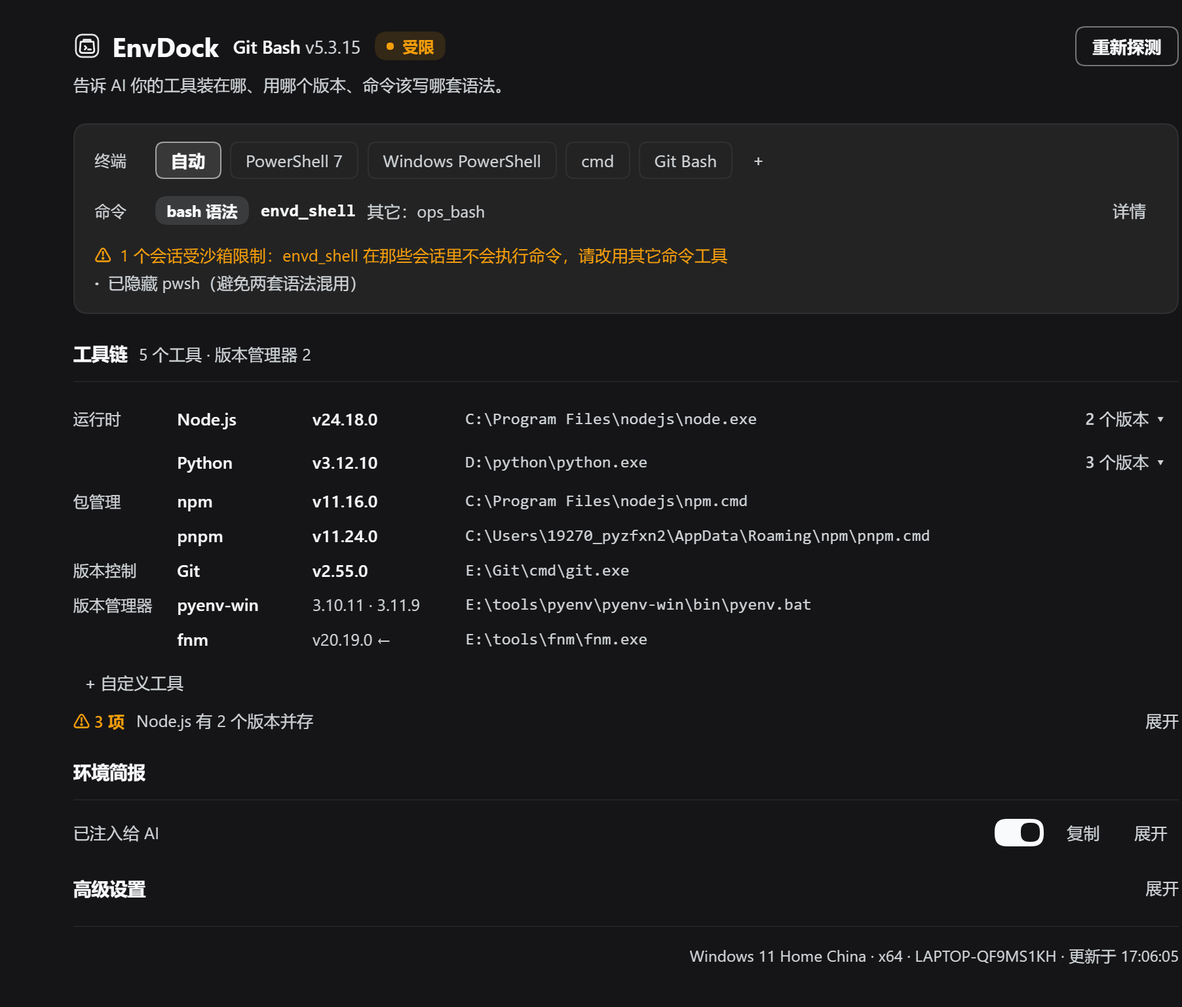
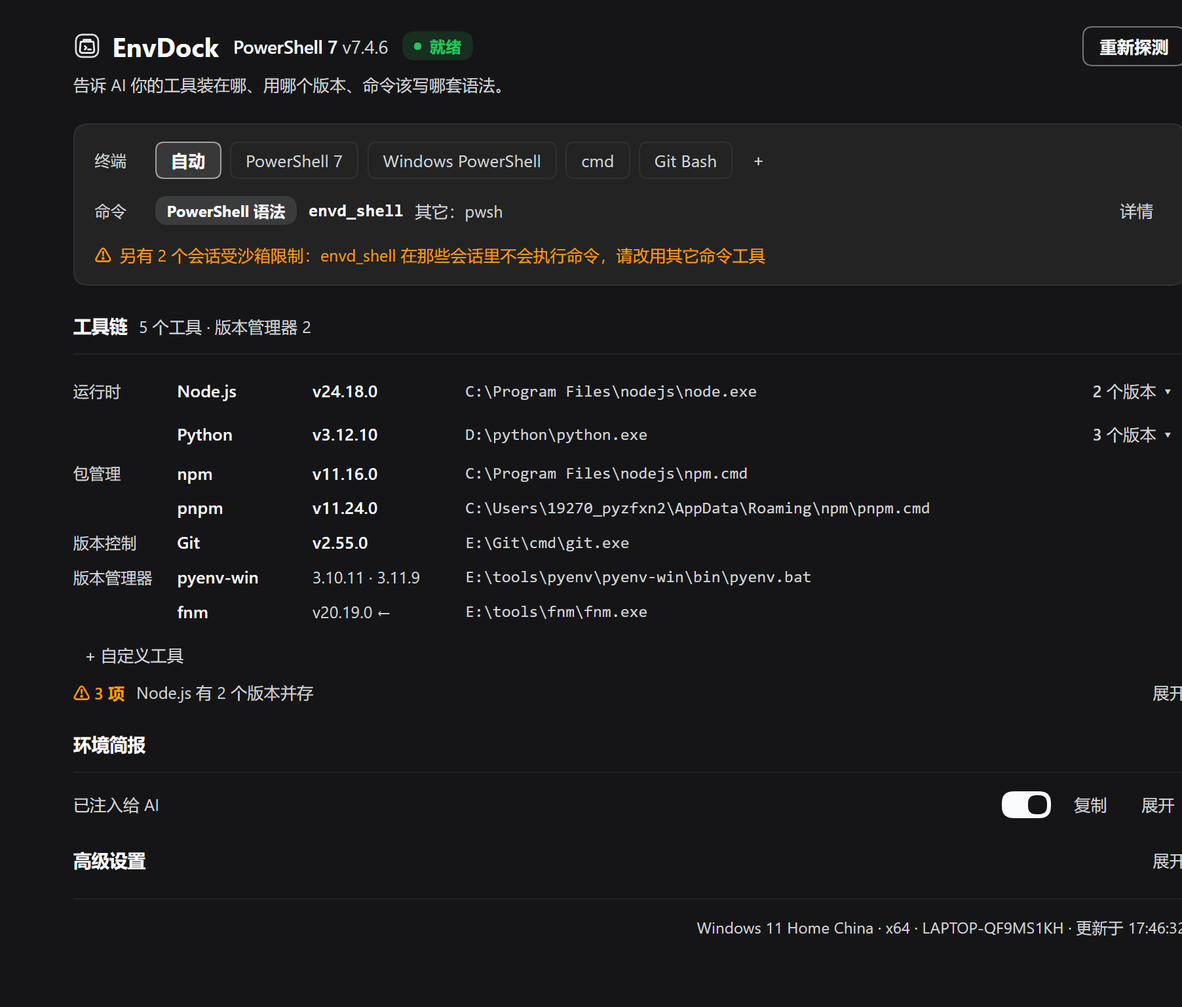
fix(panel): 0.6.1 首屏残留收尾——badge 二态、受限备注补主语、详情去累计计数
用户截图反馈（dsh-ops 禁用、宿主工具是官方 pwsh 的场景）：

- 「受限」badge 没有主语：面板是全局的，改成二态「就绪 / 只展示」；「另有 N 个会话受沙箱限制…」只留备注。- 环境差异长句不再占备注第二行：并进「其它：…」的悬停，普通状态备注为空。- 详情里的「隐藏 9 次 / 拒绝 N 次」是历史累计值（bash 族阶段留下的），当前 PowerShell 族什么都没藏，会误导；从面板与词条里删掉（API syncStats 字段保留）。- 受限备注补「另有」，避免读成当前会话。- panel-render 387 checks / i18n 20 条 / 全量 npm test 绿；DESIGN/README 中英/CHANGELOG 与 docs/panel.png 同步。

diff --git a/client.js b/client.js
@@ -17,17 +17,20 @@
  *
  * 0.6.1「首屏收敏」:陌生人打开面板 5 秒要看懂三件事 —— 这是什么插件 / AI 现在用什么
  * 命令环境 / 去哪里改。做法是「一句人话 + 四块常显 + 高级收进折叠」:
- *   · 头部下一行常显一句用途说明(.envd-subtitle);badge 只有白话三态:就绪 / 受限 / 只展示;
+ *   · 头部下一行常显一句用途说明(.envd-subtitle);badge 只有两态:就绪 / 只展示
+ *     (「有会话被沙箱限制」只进备注,不上面板级 badge);
  *   · 终端 chip 不再挂语法族小标(「pwsh」挂在每个 PowerShell 终端上既重复又误导),
  *     语法只说一次:命令行 .envd-fam 写「bash 语法 / PowerShell 语法」,手动选才带「· 手动」;
- *   · 备注全部改人话(已隐藏 / 受沙箱限制 / 别混用 / 已自动改回),仍最多两行;
+ *   · 备注全部改人话(已隐藏 / 另有 N 个会话受沙箱限制 / 别混用 / 已自动改回),仍最多两行;
+ *     环境差异那句挪进「其它」段的 title,普通状态备注最多只有一行;
  *   · 底部 footer 只留复制反馈 + 环境脚注;注入开关放在「环境简报」区那一行,
  *     「隐藏另一族命令工具 / 允许局域网访问」收进默认折叠的「高级设置」;
+ *   · 详情计数只留扫描 / 最近 / 注册尝试(隐藏/拒绝是历史累计,API 仍给但面板不摆);
  *   · 拿不到数据(403)时简报区不存在,allowLan 开关仍留在 footer(唯一入口)。
  *
  * 三条硬规则:
  *   · 常显区不放计数:计数只在「详情」里出现,常显区只留一句人话;
- *   · 只有「状态」配胶囊:终端选择用 chip,状态用 badge(三态);
+ *   · 只有「状态」配胶囊:终端选择用 chip,状态用 badge(二态);
  *   · 异常必须一行说完并说清原因:不许出现「⚠ 出错了」然后让用户去别处找。
  * 样式只用 --dsw-* theme token,浅色/深色都由 token 决定,不硬编码颜色。
  */
@@ -72,16 +75,16 @@ window.__ModuleLoader__.load({
         dismiss: '知道了',
         actionFailed: '操作失败',
         command: '命令',
-        // badge 三态:整个面板唯一的状态结论(白话,不带族)
+        // badge 二态:整个面板唯一的状态结论(白话,没有主语的状态词不上 badge)
         statusAdditive: '就绪',
         statusDisplayOnly: '只展示',
-        statusConfined: '受限',
         // 命令行
         hostPrefix: '其它：',
         hostToolsNone: '没有其它命令工具',
         noteLegacyApi: '界面拿到的还是旧版数据，重启 dsh 后就能看到命令环境',
         cmdHintEnvDock: 'EnvDock 提供的命令工具：用你的终端和 PATH',
-        cmdHintHost: '其它命令工具：由 dsh 提供，环境与 PATH 跟你的终端可能不一样',
+        // 「其它」段一句话说清它跟你终端的关系(原来备注里那条长解释挪到这里,悬停可见)
+        cmdHintHost: '其它命令工具：由 dsh 提供，环境和 PATH 跟你的终端可能不一样；要用你自己的工具时用 envd_shell',
         // 未提供命令工具的原因(skipReason)
         skipNoFamilyTerminal: '没找到可用的终端（bash 语法需要 Git Bash，PowerShell 语法需要 pwsh）',
         skipNoUnconfined: '没有不受沙箱限制的会话，暂时不会提供 envd_shell',
@@ -93,8 +96,7 @@ window.__ModuleLoader__.load({
         noteNoBashHost: '这个会话没有 bash 命令工具，未隐藏 PowerShell 工具',
         noteFamilyFallback: '手动选的语法不可用（没有对应终端，也没有对应命令工具），已自动改回按会话选择',
         noteMixed: '手动选了 PowerShell 语法：PowerShell 与 bash 工具都在，各按自己的语法写，别混用',
-        noteConfined: '{n} 个会话受沙箱限制：envd_shell 在那些会话里不会执行命令，请改用其它命令工具',
-        envHint: '其它命令工具的环境和 PATH 跟你的终端可能不一样；要用你自己的工具时用 envd_shell',
+        noteConfined: '另有 {n} 个会话受沙箱限制：envd_shell 在那些会话里不会执行命令，请改用其它命令工具',
         // 详情
         diag: '详情',
         hostTools: '命令工具',
@@ -103,8 +105,6 @@ window.__ModuleLoader__.load({
         dScan: '扫描 {n} 次',
         dLastScan: '最近 {n}ms',
         dRegisterTries: '注册尝试 {n}',
-        dRestrictApplied: '隐藏 {n} 次',
-        dGuardRefusals: '拒绝 {n} 次',
         hostToolHidden: '已隐藏',
         hostToolRefused: '调用会被拒绝',
         displayOnlyTag: '只展示（没有隐藏）',
@@ -182,15 +182,15 @@ window.__ModuleLoader__.load({
         dismiss: 'Dismiss',
         actionFailed: 'Action failed',
         command: 'Command',
-        // badge: the panel's single status conclusion (plain words, no family)
+        // badge: the panel's single status conclusion (plain words, two states)
         statusAdditive: 'Ready',
         statusDisplayOnly: 'Display only',
-        statusConfined: 'Limited',
         hostPrefix: 'Other: ',
         hostToolsNone: 'No other command tools',
         noteLegacyApi: 'The panel is reading data from an older build; restart dsh to see the command environment',
         cmdHintEnvDock: 'Command tool provided by EnvDock: runs with your terminal and PATH',
-        cmdHintHost: 'Other command tools: provided by dsh; their environment and PATH may differ from your terminal',
+        // One sentence on the "Other" group; the long note that used to sit in the panel lives here.
+        cmdHintHost: 'Other command tools: provided by dsh; their environment and PATH may differ from your terminal - use envd_shell when you need your own tools',
         skipNoFamilyTerminal: 'No usable terminal found (bash syntax needs Git Bash, PowerShell syntax needs pwsh)',
         skipNoUnconfined: 'No session outside the sandbox yet; envd_shell is not provided for now',
         skipTaken: 'Name is taken by another plugin; envd_shell is not provided',
@@ -200,8 +200,7 @@ window.__ModuleLoader__.load({
         noteNoBashHost: 'This session has no bash command tool, so PowerShell tools were not hidden',
         noteFamilyFallback: 'The manually picked syntax is unavailable (no matching terminal or command tool); switched back to per-session selection',
         noteMixed: 'PowerShell syntax was picked manually: both PowerShell and bash tools are available; write each command in its own syntax, do not mix them',
-        noteConfined: '{n} sessions are sandbox-limited: envd_shell will not run there; use another command tool',
-        envHint: 'Other command tools may use a different environment and PATH than your terminal; use envd_shell when you need your own tools',
+        noteConfined: '{n} other sessions are sandbox-limited: envd_shell will not run there; use another command tool',
         diag: 'Details',
         hostTools: 'Command tools',
         learnedTag: 'auto-detected',
@@ -209,8 +208,6 @@ window.__ModuleLoader__.load({
         dScan: 'scans: {n}',
         dLastScan: 'last: {n}ms',
         dRegisterTries: 'register tries: {n}',
-        dRestrictApplied: 'hides: {n}',
-        dGuardRefusals: 'refusals: {n}',
         hostToolHidden: 'hidden',
         hostToolRefused: 'calls are refused',
         displayOnlyTag: 'display only (not hidden)',
@@ -275,7 +272,7 @@ window.__ModuleLoader__.load({
 .envd-headline{font-size:12.5px;color:var(--dsw-alias-label-secondary);white-space:nowrap;min-width:0;max-width:100%;flex:0 1 auto;overflow:hidden;text-overflow:ellipsis}
 .envd-headline b{color:var(--dsw-alias-label-primary);font-weight:600}
 
-/* badge:整个面板只有「状态」用胶囊(三态:就绪 / 只展示 / 受限) */
+/* badge:整个面板只有「状态」用胶囊(二态:就绪 / 只展示) */
 .envd-badge{display:inline-flex;align-items:center;gap:6px;height:20px;padding:0 8px;border-radius:999px;font-size:11px;font-weight:650;white-space:nowrap;flex:none;max-width:100%;overflow:hidden;text-overflow:ellipsis;background:var(--dsw-alias-bg-layer-2);color:var(--dsw-alias-label-secondary)}
 .envd-badge .dot{width:5px;height:5px;border-radius:50%;background:currentColor;flex:none}
 .envd-badge.ok{color:var(--dsw-alias-state-success-primary);background:color-mix(in srgb,var(--dsw-alias-state-success-primary) 14%,transparent)}
@@ -815,14 +812,15 @@ window.__ModuleLoader__.load({
       const confinedCount = Math.max(0, Number(sandboxInfo.confinedCount) || 0)
       const confined = confinedCount > 0
 
-      // badge 三态(整个面板唯一的状态结论):白话三态,不挂族 —— 族只在命令行的语法标签里说。
-      //   没有命令工具 → 只展示;有且会话被沙箱限制 → 受限;否则就绪。
-      const badgeTone = ready ? (confined ? 'warn' : 'ok') : 'muted'
-      const badgeText = ready ? (confined ? t.statusConfined : t.statusAdditive) : t.statusDisplayOnly
+      // badge 二态(整个面板唯一的状态结论):有命令工具 → 就绪,没有 → 只展示。
+      // 「有会话被沙箱限制」不是面板级结论(面板是全局的):它只进备注,免得上 badge 变成没主语的「受限」。
+      const badgeTone = ready ? 'ok' : 'muted'
+      const badgeText = ready ? t.statusAdditive : t.statusDisplayOnly
 
-      // 备注最多两行,按优先级取:未提供原因 → 沙箱限制 → 语法回退 → 混用警告 → 隐藏/未隐藏 → 环境差异。
+      // 备注最多两行,按优先级取:未提供原因 → 沙箱限制 → 语法回退 → 混用警告 → 隐藏/未隐藏。
       // 「用 envd_shell」「已隐藏 pwsh」这类话只在 envd_shell 真的可用/事实真的成立时才说:
       // 没提供工具就无工具可拒,也没挡任何东西 —— 那时只剩一句原因。
+      // 环境差异那句已挪进「其它」段的 title(悬停可见),普通状态备注最多一行。
       const notes = []
       if (legacyApi) notes.push({ tone: 'warn', text: t.noteLegacyApi })
       if (!ready && !legacyApi) {
@@ -849,7 +847,6 @@ window.__ModuleLoader__.load({
       if (family === 'bash' && !mixed && !blockOtherFamily && pwshHostNames.length) notes.push({ tone: 'muted', text: t.noteNotBlocked })
       // 手动选了 bash 语法、会话里却看不到 bash 命令工具:隐藏条件不成立,说清「没有隐藏」。
       if (family === 'bash' && familySource === 'manual' && bashHostNames.length === 0) notes.push({ tone: 'muted', text: t.noteNoBashHost })
-      if (ready) notes.push({ tone: 'muted', text: t.envHint })
       const shownNotes = notes.slice(0, 2)
       const badgeTitle = shownNotes.length ? shownNotes.map((note) => note.text).join(' · ') : undefined
 
@@ -858,17 +855,10 @@ window.__ModuleLoader__.load({
         const n = Number(value)
         return Number.isFinite(n) && n > 0 ? Math.round(n) : 0
       }
-      // 0.6 的新计数(遮挡 / 拒绝)只在真的发生过时出现:常显区不放计数,详情也不摆一排 0。
+      // 详情计数只留「扫描 / 最近 / 注册尝试」这三项稳定事实:
+      // restrictApplied / guardRefusals 是历史累计(API 仍提供),贴着「此刻」的详情摆只会误导用户。
       const countText = stats
-        ? [
-            fmt(t.dScan, { n: statNum(stats.detections) }),
-            fmt(t.dLastScan, { n: statNum(stats.lastDetectMs) }),
-            fmt(t.dRegisterTries, { n: statNum(stats.registerTries) }),
-            statNum(stats.restrictApplied) ? fmt(t.dRestrictApplied, { n: statNum(stats.restrictApplied) }) : '',
-            statNum(stats.guardRefusals) ? fmt(t.dGuardRefusals, { n: statNum(stats.guardRefusals) }) : '',
-          ]
-            .filter(Boolean)
-            .join(' · ')
+        ? [fmt(t.dScan, { n: statNum(stats.detections) }), fmt(t.dLastScan, { n: statNum(stats.lastDetectMs) }), fmt(t.dRegisterTries, { n: statNum(stats.registerTries) })].filter(Boolean).join(' · ')
         : ''
       const lastError = stats && typeof stats.lastError === 'string' ? stats.lastError.trim() : ''
       // 宿主工具 chips:被遮挡的名字不在 hostTools 里(宿主报的是「此刻看得见」),

diff --git a/docs/DESIGN.md b/docs/DESIGN.md
@@ -176,11 +176,11 @@ Windows 的 `py` 启动器也是一种身份：它既是 `python` 的别名（`e
 
 首屏四块（头部 + 命令卡 + 工具链 + 环境简报）+ 折叠项（命令卡里的「详情」与独立的「高级设置」），footer 只放反馈与脚注：
 
-1. **头部**（`envd-headblock`）：图标 + `EnvDock` · 默认终端名与版本（`envd-headline`，如 `Git Bash v5.3.15`）· **恰好一个三态**状态 badge（`就绪` / `受限` / `只展示`，**不带族后缀**，悬停给出原因）· 右侧「重新探测」。下面常显**一句用途**：「告诉 AI 你的工具装在哪、用哪个版本、命令该写哪套语法。」问题数**不**在头部——它在工具链末尾的环境检查行。
+1. **头部**（`envd-headblock`）：图标 + `EnvDock` · 默认终端名与版本（`envd-headline`，如 `Git Bash v5.3.15`）· **恰好一个二态**状态 badge（`就绪` / `只展示`，**不带族后缀**，悬停给出原因；「有会话受沙箱限制」只进备注，不上面板级 badge）· 右侧「重新探测」。下面常显**一句用途**：「告诉 AI 你的工具装在哪、用哪个版本、命令该写哪套语法。」问题数**不**在头部——它在工具链末尾的环境检查行。
 2. **置顶「命令工具」卡**：
    - `终端` chips：`自动` / 各终端 / `+` 自定义终端（`+` 展开路径 + 名称 + 参数模板）。chips **只显示终端名，不带族小标**；`自动` 的悬停说明是「按会话自动选语法族（推荐）」。
    - `命令` 行：语法标签（`bash 语法` / `PowerShell 语法`；**手动选择时才带「· 手动」**，自动不带后缀）· `envd_shell`（没提供时写 `—`）· `其它：ops_bash · pwsh`（没有就写「没有其它命令工具」）· 右侧「详情」。
-   - 备注（最多两行，全白话）：没提供的原因 / `N 个会话受沙箱限制：envd_shell 在那些会话里不会执行命令，请改用其它命令工具` / `已隐藏 pwsh（避免两套语法混用）` / `手动选了 PowerShell 语法：PowerShell 与 bash 工具都在，各按自己的语法写，别混用` / 环境差异提示。
+   - 备注（最多两行，全白话）：没提供的原因 / `另有 N 个会话受沙箱限制：envd_shell 在那些会话里不会执行命令，请改用其它命令工具` / `已隐藏 pwsh（避免两套语法混用）` / `手动选了 PowerShell 语法：PowerShell 与 bash 工具都在，各按自己的语法写，别混用`。普通状态下没有备注。
    - 详情（默认收起）：见「详情与轮询」。
 3. **工具链**：一行一个工具（分组 / 名称 / 版本 / 路径可点复制 / 行尾「N 个版本 ▾」），版本管理器一行一个（激活版本带 ←），末尾「+ 自定义工具」入口；**环境检查收在工具链末尾一行**：健康时 `✓ 通过`，有问题时 `⚠ N 项` + 第一条标题，点开展开列表。
 4. **环境简报**：一行「已注入给 AI / 未注入」+ **行内注入开关** + 复制 + 展开；展开才显示简报正文。开关挪到这里之后，底部 footer 不再重复同一件事。
@@ -189,33 +189,32 @@ Windows 的 `py` 启动器也是一种身份：它既是 `python` 的别名（`e
 
 ### 已删除的渲染
 
-接管期语义早就删除：接管模式 / 沙箱下接管 chips、逐会话表、状态胶囊 `.envd-statuschip`、异常 / 让路 / 工具并存渲染、`kind` 推导。0.6.1 再删一轮「技术味太重」的装饰：终端 chip 上的族小标、badge 的族后缀、底部与简报区重复的开关、首屏的「族 / 宿主 / 围栏 / 增补」措辞。面板仍然只有一处状态结论，也不重新引入逐会话表。
+接管期语义早就删除：接管模式 / 沙箱下接管 chips、逐会话表、状态胶囊 `.envd-statuschip`、异常 / 让路 / 工具并存渲染、`kind` 推导。0.6.1 再删一轮「技术味太重」的装饰：终端 chip 上的族小标、badge 的族后缀与「受限」态、底部与简报区重复的开关、备注里的环境差异长句、详情里的历史累计隐藏 / 拒绝次数、首屏的「族 / 宿主 / 围栏 / 增补」措辞。面板仍然只有一处状态结论，也不重新引入逐会话表。
 
-### 三态 badge
+### 二态 badge
 
-面板只有一个状态结论，由「是否提供且可见」+「有没有会话受沙箱限制」推出（文案是白话，不挂族）：
+面板只有一个状态结论，只看「是否提供且可见」（文案是白话，不挂族）：
 
 | 条件 | 文案 | 色调 | 含义 |
 |---|---|---|---|
-| `registered && visible`，且 `confinedCount > 0` | `受限` | warn（黄） | `envd_shell` 提供了，但有会话受沙箱限制、在那些会话里不会执行命令 |
-| `registered && visible`，没有受限会话 | `就绪` | ok（绿） | 命令入口可用 |
+| `registered && visible` | `就绪` | ok（绿） | 命令入口可用 |
 | 未提供（没有可用终端 / 没有不受沙箱限制的会话 / 被别的插件重名 / 注册失败） | `只展示` | muted（灰） | 面板只列其它命令工具，原因写在备注里 |
 
-badge 的悬停文本 = 最多两条备注；badge 自身不挂计数、不带族。语法在命令行那一行说。
+「有会话受沙箱限制」**不**进 badge：面板是全局的，没有主语的「受限」会让第一次打开的人以为插件坏了。它只出现在备注里（「另有 N 个会话受沙箱限制：…」）。badge 的悬停文本 = 最多两条备注；badge 自身不挂计数、不带族。语法在命令行那一行说。
 
 ### 备注规则（最多两行，全白话）
 
 - **没提供时**只说原因，按 `skipReason` 分支：`no-family-terminal` → 「没找到可用的终端（bash 语法需要 Git Bash，PowerShell 语法需要 pwsh）」；`no-unconfined-session` → 「没有不受沙箱限制的会话，暂时不会提供 envd_shell」；`taken` → 「和别的插件重名了，暂时不提供 envd_shell」；`error` → 「没能提供命令工具（注册失败）」。
-- **受沙箱限制**：一行 `N 个会话受沙箱限制：envd_shell 在那些会话里不会执行命令，请改用其它命令工具`。
+- **受沙箱限制**：一行 `另有 N 个会话受沙箱限制：envd_shell 在那些会话里不会执行命令，请改用其它命令工具`（补「另有」是为了不让人以为说的是当前会话）。
 - **手动选的语法不可用**：一行 `手动选的语法不可用（没有对应终端，也没有对应命令工具），已自动改回按会话选择`。
 - **两套语法同时可见**（手动 PowerShell + 会话里有 bash 工具）：一行 `手动选了 PowerShell 语法：PowerShell 与 bash 工具都在，各按自己的语法写，别混用`。
 - **隐藏生效**：一行 `已隐藏 pwsh（避免两套语法混用）`；开关关掉时写「PowerShell 的命令工具没有隐藏（开关已关）」；手动 bash 但会话看不到 bash 命令工具时写「这个会话没有 bash 命令工具，未隐藏 PowerShell 工具」。
-- **环境差异**：一行 `其它命令工具的环境和 PATH 跟你的终端可能不一样；要用你自己的工具时用 envd_shell`——没提供命令工具时不说这句（那时让人「用 envd_shell」是假话）。
+- **环境差异**不再占一行备注：这句解释挂到 `其它：…` 的悬停（`cmdHintHost`）里，普通状态备注为空；没提供命令工具时更不会说这句（那时让人「用 envd_shell」是假话）。
 - 备注是「一句人话 + 一个原因」，按上面的优先级截到两行；计数只出现在详情里。
 
 ### 详情与轮询
 
-- 详情默认收起：`扫描 N 次 · 最近 Nms · 注册尝试 N`（只读 `syncStats` 白名单）+ 隐藏次数（`restrictApplied`）/ 拒绝次数（`guardRefusals`）+ 命令工具 chips（`learned` 带 ✦，被隐藏的标「已隐藏」，只能拒绝的标「调用会被拒绝」，启发式认出的标「只展示（没有隐藏）」）+ 最近错误（截断到 140 字符）。计数只在这里出现，常显区不放数字。
+- 详情默认收起：`扫描 N 次 · 最近 Nms · 注册尝试 N`（只读 `syncStats` 白名单）+ 命令工具 chips（`learned` 带 ✦，被隐藏的标「已隐藏」，只能拒绝的标「调用会被拒绝」，启发式认出的标「只展示（没有隐藏）」）+ 最近错误（截断到 140 字符）。计数只在这里出现，常显区不放数字。
 - 面板每 15 秒静默拉一次 `/envdock-api`，只在 `document.visibilityState === 'visible'` 时拉；payload 比较前剔除 `ticks` / `lastAt` / `lastErrorAt` / `now` / `updatedAt` 等易变键（否则每个 tick 都会被当成「有变化」重渲染）。复制优先 `navigator.clipboard`，局域网 http 退到 `textarea + execCommand('copy')`，失败给可见提示。
 
 ## 健康检查
@@ -256,7 +255,7 @@ node test/simulate.mjs --help   # 手动验证:起假宿主跑真实 index.js，
 
 `family.mjs` 不依赖宿主夹具：选族、锁定、10 秒窗、遮挡名单与简报行都是纯函数，用表驱动用例钉住——「不挡 PowerShell 以外的名字 / 不挡 bash 名」这条边界最便宜的回归就在这里。
 
-`panel-render` 不引入 React：桩掉 slots / locale / fetch，加载 `client.js` 捕获真实渲染树，断言首屏用途一句、白话三态 badge（就绪 / 受限 / 只展示）、终端 chips 无族标、命令行语法标签（手动才带「· 手动」）、两行白话备注、简报行内注入开关、高级设置折叠里的两个开关、footer 有数据时零开关 / 403 时保留 allowLan 入口、详情里的计数与标签（共 387 条），并保留**不存在**逐会话表 / 接管 chips / `.envd-statuschip`、首屏不出现「宿主 / 围栏 / 增补」黑话，以及长名字溢出、复制兜底、15 秒轮询去重与卸载清定时器。
+`panel-render` 不引入 React：桩掉 slots / locale / fetch，加载 `client.js` 捕获真实渲染树，断言首屏用途一句、白话二态 badge（就绪 / 只展示）、终端 chips 无族标、命令行语法标签（手动才带「· 手动」）、两行白话备注、简报行内注入开关、高级设置折叠里的两个开关、footer 有数据时零开关 / 403 时保留 allowLan 入口、详情里的计数与标签（共 387 条），并保留**不存在**逐会话表 / 接管 chips / `.envd-statuschip`、首屏不出现「宿主 / 围栏 / 增补」黑话，以及长名字溢出、复制兜底、15 秒轮询去重与卸载清定时器。
 
 `npm test` 只在**检出目录**可用：npm 包的 `files` 里没有 `test/`，从 npm 安装的插件没有这些自测可跑。
 

diff --git a/README.en.md b/README.en.md
@@ -11,7 +11,7 @@
 
 ![EnvDock panel: one-sentence purpose, terminal choice, command row, toolchain](https://raw.githubusercontent.com/tkochj/dsh-envdock/main/docs/panel.png)
 
-> The screenshot is the 0.6.1 first screen: a one-line header (icon · plugin name · default terminal and version · one three-state badge · Rescan) with a one-sentence purpose underneath; the pinned **Terminal / Command** card (`Terminal` set to `Auto`, the `Command` row reads "`bash syntax` · `envd_shell` · `Other: ops_bash` · Details", with up to two plain-language notes below); a toolchain with one row per tool; one Environment brief row (state + an inline switch + Copy + Expand); **Advanced** collapsed by default and holding the "Hide the other family command tools" and "Allow LAN access" switches; and a footer with only copy feedback and the platform / updated footnote.
+> The screenshot is the 0.6.1 first screen (this example machine uses the PowerShell family): a one-line header (icon · plugin name · default terminal and version · one two-state badge · Rescan) with a one-sentence purpose underneath; the pinned **Terminal / Command** card (`Terminal` set to `Auto`, the `Command` row reads "`PowerShell syntax` · `envd_shell` · `Other: pwsh` · Details", with one plain-language note only when needed, at most two); a toolchain with one row per tool; one Environment brief row (state + an inline switch + Copy + Expand); **Advanced** collapsed by default and holding the "Hide the other family command tools" and "Allow LAN access" switches; and a footer with only copy feedback and the platform / updated footnote.
 
 On Windows it is common to have several Node / Python / Git installations side by side, while cmd, PowerShell and Git Bash all disagree on syntax. Without EnvDock the agent has to probe with `where node`, guess paths, write the wrong command and retry. **EnvDock is a DeepSeek Harness (dsh) plugin** that detects your toolchain at startup, injects a ready-made environment brief into the agent's context, and exposes **one syntax family per session** (bash or PowerShell); it optionally adds one command tool that runs your terminal (`envd_shell`). No configuration required.
 
@@ -97,12 +97,12 @@ The panel answers four questions on the first screen: **which terminal this mach
 
 | Area | What it always shows |
 |---|---|
-| **Header (one line + one-sentence purpose)** | Icon · plugin name · default terminal and version (e.g. `Git Bash v5.3.15`) · **exactly one three-state** status badge · Rescan on the right (re-reads the system's **current** PATH; on Windows it re-reads the registry and clears the version cache; it also re-judges the syntax choice, dropping the previous session decisions and hidden names). Underneath, always visible: "Tells the agent where your tools live, which version to use, and which shell syntax to write." |
-| **Status badge** | The panel's single conclusion, in plain words: green **Ready** (the command tool works), yellow **Limited** (some sessions are sandbox-limited, so `envd_shell` will not run there), muted **Display only** (no command tool provided — the panel only lists the other command tools). No family suffix; hover for up to two notes. |
+| **Header (one line + one-sentence purpose)** | Icon · plugin name · default terminal and version (e.g. `Git Bash v5.3.15`) · **exactly one two-state** status badge · Rescan on the right (re-reads the system's **current** PATH; on Windows it re-reads the registry and clears the version cache; it also re-judges the syntax choice, dropping the previous session decisions and hidden names). Underneath, always visible: "Tells the agent where your tools live, which version to use, and which shell syntax to write." |
+| **Status badge** | The panel's single conclusion, in plain words: green **Ready** (the command tool works) or muted **Display only** (no command tool provided — the panel only lists the other command tools). "Some sessions are sandbox-limited" never lands on the panel-level badge (the panel is global; a bare "Limited" reads like the plugin is broken) — it is a note instead. No family suffix; hover for up to two notes. |
 | **Command card · Terminal** | `Terminal` chips: `Auto` + every detected terminal + `+` (custom terminal: path / name / argument template). Chips show the terminal name only, no family tag; the `Auto` tooltip reads "Picks the shell syntax per session (recommended)". Switching applies immediately. |
 | **Command card · Command** | The `Command` row: the syntax tag (`bash syntax` / `PowerShell syntax`, **with "· manual" only when picked by hand**) · `envd_shell` (**`—` when none is provided**) · `Other: ops_bash · pwsh` ("No other command tools" when there is none) · Details on the right. Hover explains where each one's environment / PATH comes from. |
-| **Notes (at most two lines, plain words)** | Only when needed: why no command tool is provided (`No usable terminal found (bash syntax needs Git Bash, PowerShell syntax needs pwsh)` / `No session outside the sandbox yet; envd_shell is not provided for now` / `Name is taken by another plugin; envd_shell is not provided` / `Could not provide the command tool (registration failed)`), `N sessions are sandbox-limited: envd_shell will not run there; use another command tool`, `The manually picked syntax is unavailable (no matching terminal or command tool); switched back to per-session selection`, `PowerShell syntax was picked manually: both PowerShell and bash tools are available; write each command in its own syntax, do not mix them`, `Hid pwsh (to avoid mixing the two syntaxes)`, and one environment hint: "Other command tools may use a different environment and PATH than your terminal; use envd_shell when you need your own tools". |
-| **Details (collapsed by default)** | `scans: N · last: Xms · register tries: N` + hide / refusal counters + command-tool chips (`name · syntax`; heuristically recognised ones carry a ✦ "auto-detected" mark, hidden / refusal-only / display-only ones are tagged) + the last error. |
+| **Notes (at most two lines, plain words)** | Only when needed: why no command tool is provided (`No usable terminal found (bash syntax needs Git Bash, PowerShell syntax needs pwsh)` / `No session outside the sandbox yet; envd_shell is not provided for now` / `Name is taken by another plugin; envd_shell is not provided` / `Could not provide the command tool (registration failed)`), `N other sessions are sandbox-limited: envd_shell will not run there; use another command tool`, `The manually picked syntax is unavailable (no matching terminal or command tool); switched back to per-session selection`, `PowerShell syntax was picked manually: both PowerShell and bash tools are available; write each command in its own syntax, do not mix them`, `Hid pwsh (to avoid mixing the two syntaxes)`. In the quiet case (nothing to report) there is no note at all; the "other command tools may use a different environment and PATH" explanation lives in the hover of `Other: …`. |
+| **Details (collapsed by default)** | `scans: N · last: Xms · register tries: N` + command-tool chips (`name · syntax`; heuristically recognised ones carry a ✦ "auto-detected" mark, hidden / refusal-only / display-only ones are tagged) + the last error. |
 | **Toolchain** | One row per tool: group name (only on the group's first row) · name · version · path (**click the path to copy**) · "N versions ▾" at the end of the row (candidates and "set as default" appear only after expanding). Version managers are one row each (the active version carries ←), followed by the "+ Custom tool" entry. |
 | **Health check (one line, end of the toolchain)** | `✓ Pass` when healthy; otherwise `⚠ N issue(s)` plus the first title, expanding into the full list (red / yellow / grey). |
 | **Environment brief (one line)** | "Injected into the agent / Not injected" + an **inline injection switch** + Copy + Expand; the text appears only after expanding. |

diff --git a/README.md b/README.md
@@ -11,7 +11,7 @@
 
 ![EnvDock 面板：一句用途、终端选择、命令工具一行、工具链](https://raw.githubusercontent.com/tkochj/dsh-envdock/main/docs/panel.png)
 
-> 截图是 0.6.1 的首屏：头部一行（图标 · 插件名 · 默认终端与版本 · 一个三态 badge · 重新探测）下面常显一句用途说明；置顶的「终端 / 命令」卡（`终端` 选中「自动」，`命令` 行是「`bash 语法` · `envd_shell` · `其它：ops_bash` · 详情」，下面是最多两行白话说明）；工具链一行一个工具；环境简报一行（状态 + 行内开关 + 复制 + 展开）；「高级设置」默认收起，里面才是「隐藏另一族命令工具」与「允许局域网访问」两个开关；底部只剩复制反馈与平台 / 更新时间脚注。
+> 截图是 0.6.1 的首屏（示例机器上是 PowerShell 族）：头部一行（图标 · 插件名 · 默认终端与版本 · 一个二态 badge · 重新探测）下面常显一句用途说明；置顶的「终端 / 命令」卡（`终端` 选中「自动」，`命令` 行是「`PowerShell 语法` · `envd_shell` · `其它：pwsh` · 详情」，下面只在需要时出现一行白话说明，最多两行）；工具链一行一个工具；环境简报一行（状态 + 行内开关 + 复制 + 展开）；「高级设置」默认收起，里面才是「隐藏另一族命令工具」与「允许局域网访问」两个开关；底部只剩复制反馈与平台 / 更新时间脚注。
 
 Windows 上做开发，机器里常常并排放着好几套 Node / Python / Git，cmd、PowerShell、Git Bash 又各有各的语法。没有 EnvDock 时，AI 要先 `where node` 试探、猜路径、写错命令再重试——慢，而且容易在版本和语法上踩坑。
 
@@ -99,12 +99,12 @@ dsh web
 
 | 区域 | 常显内容 |
 |---|---|
-| **头部（一行 + 一句用途）** | 图标 · 插件名 · 默认终端与版本（如 `Git Bash v5.3.15`）· **恰好一个三态**状态 badge · 右侧「重新探测」（按系统**当前** PATH 重扫，Windows 会重读注册表并清空版本缓存；同时重新判定语法选择：清掉此前的会话判定与隐藏记忆）。下面常显一句用途：「告诉 AI 你的工具装在哪、用哪个版本、命令该写哪套语法。」 |
-| **状态 badge** | 整个面板唯一的状态结论，白话三态：绿「就绪」（命令工具可用）、黄「受限」（有会话受沙箱限制，`envd_shell` 在那些会话里不会执行命令）、灰「只展示」（没提供命令工具，面板只列其它命令工具）。不带族后缀；悬停显示最多两条说明。 |
+| **头部（一行 + 一句用途）** | 图标 · 插件名 · 默认终端与版本（如 `Git Bash v5.3.15`）· **恰好一个二态**状态 badge · 右侧「重新探测」（按系统**当前** PATH 重扫，Windows 会重读注册表并清空版本缓存；同时重新判定语法选择：清掉此前的会话判定与隐藏记忆）。下面常显一句用途：「告诉 AI 你的工具装在哪、用哪个版本、命令该写哪套语法。」 |
+| **状态 badge** | 整个面板唯一的状态结论，白话二态：绿「就绪」（命令工具可用）、灰「只展示」（没提供命令工具，面板只列其它命令工具）。「有会话受沙箱限制」不上面板级 badge（面板是全局的，没主语的「受限」容易被当成插件坏了），只写进备注；不带族后缀，悬停显示最多两条说明。 |
 | **命令卡 · 终端** | `终端` chips：`自动` + 探测到的各终端 + `+`（自定义终端：路径 / 名称 / 参数模板）。chips 只显示终端名，没有族小标；`自动` 的悬停是「按会话自动选语法族（推荐）」。切终端立即生效。 |
 | **命令卡 · 命令** | `命令` 行：语法标签（`bash 语法` / `PowerShell 语法`，**手动选择才有「· 手动」**）· `envd_shell`（**没提供时显示 `—`**）· `其它：ops_bash · pwsh`（一个都没有就写「没有其它命令工具」）· 右侧「详情」。悬停分别解释两者的环境 / PATH 来自哪里。 |
-| **备注（最多两行，全白话）** | 只在需要时出现：没提供命令工具的原因（`没找到可用的终端（bash 语法需要 Git Bash，PowerShell 语法需要 pwsh）` / `没有不受沙箱限制的会话，暂时不会提供 envd_shell` / `和别的插件重名了，暂时不提供 envd_shell` / `没能提供命令工具（注册失败）`）、`N 个会话受沙箱限制：envd_shell 在那些会话里不会执行命令，请改用其它命令工具`、`手动选的语法不可用（没有对应终端，也没有对应命令工具），已自动改回按会话选择`、`手动选了 PowerShell 语法：PowerShell 与 bash 工具都在，各按自己的语法写，别混用`、`已隐藏 pwsh（避免两套语法混用）`，以及一句环境提示「其它命令工具的环境和 PATH 跟你的终端可能不一样；要用你自己的工具时用 envd_shell」。 |
-| **详情（默认收起）** | `扫描 N 次 · 最近 Nms · 注册尝试 N` + 隐藏 / 拒绝次数 + 命令工具 chips（`名字 · 语法`，靠名字 / 描述启发式认出来的带 ✦「自动识别」；被隐藏、只能拒绝、只展示各带标签）+ 最近错误。 |
+| **备注（最多两行，全白话）** | 只在需要时出现：没提供命令工具的原因（`没找到可用的终端（bash 语法需要 Git Bash，PowerShell 语法需要 pwsh）` / `没有不受沙箱限制的会话，暂时不会提供 envd_shell` / `和别的插件重名了，暂时不提供 envd_shell` / `没能提供命令工具（注册失败）`）、`另有 N 个会话受沙箱限制：envd_shell 在那些会话里不会执行命令，请改用其它命令工具`、`手动选的语法不可用（没有对应终端，也没有对应命令工具），已自动改回按会话选择`、`手动选了 PowerShell 语法：PowerShell 与 bash 工具都在，各按自己的语法写，别混用`、`已隐藏 pwsh（避免两套语法混用）`。普通状态下不显示备注；「其它命令工具的环境可能和你的终端不一样」这类解释放在 `其它：…` 的悬停里。 |
+| **详情（默认收起）** | `扫描 N 次 · 最近 Nms · 注册尝试 N` + 命令工具 chips（`名字 · 语法`，靠名字 / 描述启发式认出来的带 ✦「自动识别」；被隐藏、只能拒绝、只展示各带标签）+ 最近错误。 |
 | **工具链** | 每个工具**一行**：分组名（只在该组第一行出现）· 名称 · 版本 · 路径（**点路径即复制**）· 行尾「N 个版本 ▾」（点开才列候选与「设为默认」）。版本管理器也一行一个（激活版本带 ←），末尾是「+ 自定义工具」入口。 |
 | **环境检查（工具链末尾一行）** | 健康时 `✓ 通过`；有问题时 `⚠ N 项` + 第一条标题，点开展开完整列表（红 / 黄 / 灰分档）。 |
 | **环境简报（一行）** | 「已注入给 AI / 未注入」+ **行内注入开关** +「复制」+「展开」；展开才显示简报正文。 |

diff --git a/CHANGELOG.md b/CHANGELOG.md
@@ -4,12 +4,13 @@
 
 ## [0.6.1] - 2026-11-08
 
-> 只改面板与文档，**宿主行为不变**（探测、两族选族、隐藏与执行语义都和 0.6.0 一致）。面板首屏面向第一次打开的用户重新排布：一句用途 + 白话三态 + 白话备注，技术细节收进「详情 / 高级设置」。
+> 只改面板与文档，**宿主行为不变**（探测、两族选族、隐藏与执行语义都和 0.6.0 一致）。面板首屏面向第一次打开的用户重新排布：一句用途 + 白话 badge + 白话备注，技术细节收进「详情 / 高级设置」。
 
 ### Changed
 
 - **面板首屏信息层级收敛**：头部下方常显一句用途「告诉 AI 你的工具装在哪、用哪个版本、命令该写哪套语法。」；`终端` chips 只显示终端名（去掉族小标）；`命令` 行改成「`bash 语法` / `PowerShell 语法` · `envd_shell` · `其它：ops_bash` · 详情」，语法标签只在手动选择时带「· 手动」；备注全部白话化，最多两行。
-- **状态 badge 白话三态**：`就绪` / `受限` / `只展示`（不再带族后缀；悬停给出原因）。
+- **状态 badge 白话二态**：`就绪` / `只展示`（不再带族后缀；悬停给出原因）。「有会话受沙箱限制」不上面板级 badge——面板是全局的，没主语的「受限」会被当成插件坏了，只留在备注里。
+- **备注与详情收尾**：「受沙箱限制」补主语（「另有 N 个会话…」）；环境差异长句从备注挪到 `其它：…` 的悬停（普通状态备注为空）；详情去掉历史累计的隐藏 / 拒绝次数（累计值在 PowerShell 族下会显示「隐藏 9 次」这种误导信息，API 字段仍在）。
 - **开关归位**：简报注入开关挪到「环境简报」行内（以前底部 footer 与简报区各说一遍）；「隐藏另一族命令工具」与「允许局域网访问面板 API」收进默认收起的「高级设置」；有数据时底部 footer **零开关**，只剩复制反馈与平台 / 更新时间脚注。
 - **403 时保留入口**：拿不到数据（403 / 接口没响应）时简报区不存在，「允许局域网访问」开关留在 footer 作为唯一入口，否则用户没有解法。
 - **术语改法**：首屏不再出现「族 / 宿主 / 围栏 / 增补」——族 →「bash 语法 / PowerShell 语法」，宿主命令工具 →「其它命令工具」，围栏 →「受沙箱限制」；技术词保留在「详情 / 高级设置」与 DESIGN 的模型章节。
